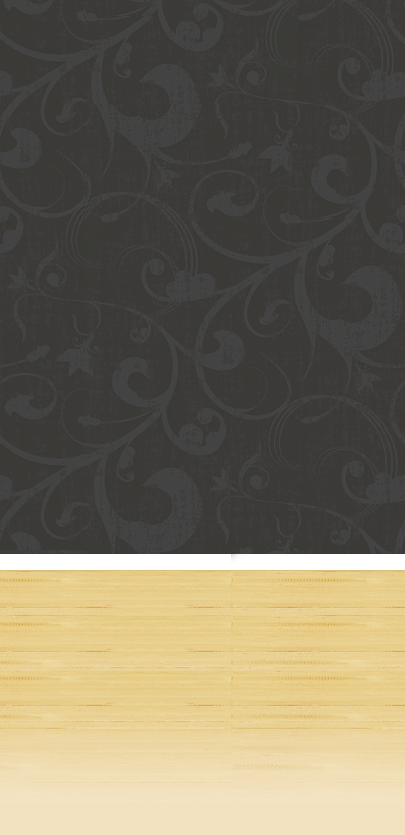
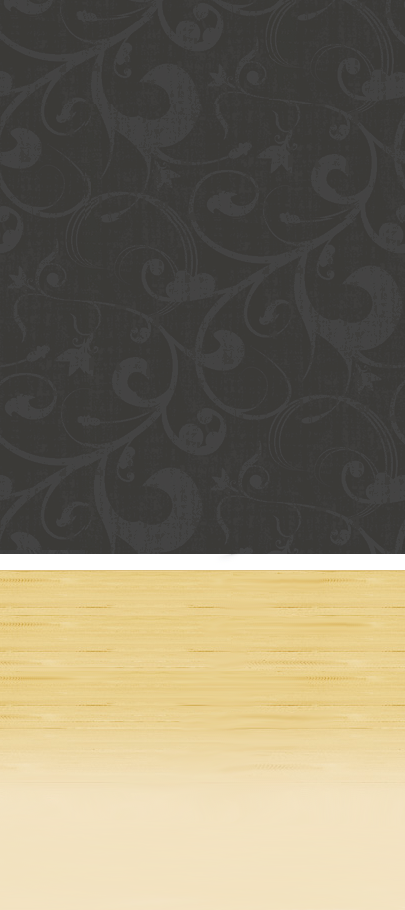
Readme - additional details added and supporting documents

diff --git a/assets/css/style.css b/assets/css/style.css
@@ -14,25 +14,22 @@ body {
 }
 
 .contrast-panel {
-    background: rgba(60,60,60, 0.1);
+    background: rgba(60,60,60, 0.2);
     padding-bottom: 20px;
     margin-bottom: 25px;
     border-radius: 8px;
 }
 
 .light-contrast-panel {
-    background: rgba(248, 240, 223, 0.3);
+    background: rgb(248, 240, 223);
     border-radius: 8px;
+    margin-top: -58px;
+    margin-bottom: 15px;
 }
 
 .content-section {
     background-color: #f8f0df;
     min-height: 900px;
-}
-
-.home {
-    color: #f8f0df;
-    z-index: 2;
 }
 
 .selected:before {
@@ -251,7 +248,12 @@ footer p {
         background: url("../images/index-bg.png");
         background-repeat: repeat-x;
         min-height: 400px;
-        background-color: rgba(121, 180, 183);
+        background-color: rgb(248, 240, 223);
+    }
+
+    .home {
+        color: #f8f0df;
+        z-index: 2;
     }
     
     }

diff --git a/index.html b/index.html
@@ -59,9 +59,9 @@
                 </div>
             </div>
             <!-- Second of 2 columns taking up 50% of the screen-->
-            <div class="col-lg-5 light-contrast-panel">
-                <div class="row">
-                    <div class="col">
+            <div class="col-lg-5">
+                
+                    <div class="col light-contrast-panel">
                         <h2>Who am I?</h2>
                         <p>I'm a junior Full Stack Developer who has a wealth of diverse life and technical experience
                             gained from a variety of jobs over the last 20 years, from marketing assistant to brewer of
@@ -84,7 +84,7 @@
                             you
                             require.</p>
                     </div>
-                </div>
+                
             </div>
         </div>
     </section>

diff --git a/README.md b/README.md
@@ -1,16 +1,17 @@
 
-
-
-
-https://www.fabiofranchino.com/blog/vertical-text-with-css/
-
-<h1 align="center">Barry Marples Personal Website</h1>
+<h1 align="center">Barry Marples Personal Website
+<br />
 
 [View the live project here.](https://barrybeics.github.io/Project-One/)
 
-This website is the personal web development site for Barry Marples. As a junior developer this site will serve as a space to showcase work so that prospective employers and collaborators can see if Barry is the man for there next big project and then they can make contact.
+</h1>
+
+This website is the personal web development site for Barry Marples. As a junior developer this site will serve as a space to showcase work so that prospective employers and collaborators can see if Barry is the man for there next big project.
+<br />
 
 <h2 align="center"><img src="./readme-docs/portfolio-barry-marples.png"></h2>
+
+<br />
 
 ## User Experience (UX)
 
@@ -35,7 +36,7 @@ This website is the personal web development site for Barry Marples. As a junior
         3. As a Frequent User, I want to sign up to the Newsletter so that I am emailed any major updates and/or changes to the website or organisation.
 
 
-
+<br /><br />
 
 -   ### Design
     -   #### Colour Scheme
@@ -45,13 +46,20 @@ This website is the personal web development site for Barry Marples. As a junior
     -   #### Imagery
         -   This simple clean site design only contains one images of a character of Barry busy working at his desk. This imaged is overlaid with 2 animated gifs. 
 of a fresh steaming cup of coffee and 2. The talking mouth and blinking eyes of the character.
+
+<br /><br />
+
 *   ### Wireframes
 
-    -   Home Page Wireframe - [View](./readme-docs/)
+    -   The wireframes for this site were produced in Balsamiq (https://balsamiq.com/). Wire frames were created for Desktop, Tablet & mobile respectivaly. 
+    you will see the final site changed due to the concept not working well in reality. 
+    
+        This required so reconfiruation of the layout using the bootstrap elemnts. 
+    
+        Wireframe - [View](WIREFRAMES.md)
 
-    -   Mobile Wireframe - [View](https://github.com/)
-
-    -   Contact Us Page Wireframe - [View](https://github.com/)
+    
+<br /><br /> 
 
 ## Features
 
@@ -88,3 +96,6 @@ of a fresh steaming cup of coffee and 2. The talking mouth and blinking eyes of 
     - Illustrator was used to animate the steam on the coffee and the talking head gifs.
 1. [Balsamiq:](https://balsamiq.com/)
     - Balsamiq was used to create the [wireframes](https://github.com/) during the design process.
+
+
+<br /><br />

diff --git a/WIREFRAMES.md b/WIREFRAMES.md
@@ -1,0 +1,68 @@
+<h1 align="center">Wireframes</h1>
+
+
+
+<br /><br />
+
+The wireframes for this site were produced in Balsamiq (https://balsamiq.com/).
+ 
+Wire frames were created for Desktop, Tablet & mobile respectively.
+ 
+As you can see the final site changed due to the concept not working well in reality.
+ 
+This required some reconfiguration of the layout using the bootstrap elements.
+
+
+<br />
+
+## Desktop
+
+-   Responsive on all device sizes
+
+
+<h2 align="center">
+<img src="./readme-docs/wireframe-desktop-index.png" width="400p" height="235">
+<img src="./readme-docs/wireframe-desktop-resume.png" width="400p" height="235">
+<img src="./readme-docs/wireframe-desktop-contact.png" width="400p" height="235">
+</h2>
+
+<br />
+
+Back to README - [View](README.md)
+
+<br />
+
+## Tablet
+
+-   Responsive on all device sizes
+
+
+<br />
+
+<h2 align="center">
+<img src="./readme-docs/wireframe-tablet-index.png" width="400p" height="525">
+<img src="./readme-docs/wireframe-tablet-resume.png" width="400p" height="525">
+<img src="./readme-docs/wireframe-tablet-contact.png" width="400p" height="525">
+</h2>
+
+<br />
+
+Back to README - [View](README.md)
+
+<br />
+
+## Mobile
+
+-   Responsive on all device sizes
+
+<br />
+
+<h2 align="center">
+<img src="./readme-docs/wireframe-mobile-index.png" width="200p" height="600">
+<img src="./readme-docs/wireframe-mobile-resume.png" width="200p" height="600">
+<img src="./readme-docs/wireframe-mobile-contact.png" width="200p" height="600">
+</h2>
+
+<br />
+
+Back to README - [View](README.md)

diff --git a/TESTING.md b/TESTING.md
@@ -1,0 +1,11 @@
+
+# Testing
+## Code Validation
+The Wawas Woods site has be throughly tested. All the code has been run through the [W3C html Validator](https://validator.w3.org/) and the [W3C CSS Validator](https://jigsaw.w3.org/css-validator/). Minor errors were found on the home and inspiration pages. After a fix and retest, no errors were returned for both. 
+
+The HTML validator results for each page are below:
+
+* Home page
+
+![W3C Validator test result](assets/readme-images/w3ctesting.png)
+
